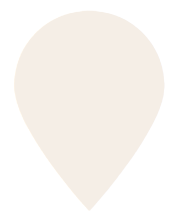
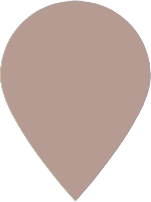
updated map design

diff --git a/app/assets/stylesheets/components/_media.css b/app/assets/stylesheets/components/_media.css
@@ -4,8 +4,22 @@
   margin: 5%;
 }
 
+.space-background {
+  background-image: url('stars.jpg');
+  background-repeat: no-repeat;
+  background-size: cover;
+  position: fixed;
+  top: 0px;
+  width: 100%;
+  z-index: -1;
+}
+
 .window {
   background: linear-gradient(0deg, rgba(255,255,255,0.1) 0%, rgba(187,227,242,0) 21%, rgba(152,212,234,0) 86%, rgba(252,252,252,0.1) 100%);
+}
+
+.empty-section {
+  background: none;
 }
 
 /* about me */
@@ -13,8 +27,8 @@
   height: 40vh;
   width: 30%;
   object-fit: cover;
-  border-radius: 10px;
-  border: 20px solid #131313;
+  border: 20px solid white;
+  border-bottom: 50px solid white;
   position: absolute;
   top: 0px;
   right: 0px;
@@ -34,13 +48,20 @@
 
 /* past experiences */
 .map {
-  background-image: url("world-map.png");
-  height: 400px;
-  width: 650px !important;
-  border: 20px solid #131313;
+  /* background: linear-gradient(49deg, rgba(136,206,231,0.5) 0%, rgba(187,227,242,0.5) 66%, rgba(136,206,231,0.5) 93%); */
+  height: fit-content;
+  width: 60vw;
+  max-width: 650px;
   border-radius: 10px 0px 0px 10px;
   background-size: 100% 100%;
   position: relative;
+}
+
+.world-map {
+  fill: black !important;
+  filter:drop-shadow(5px 5px 10px var(--light-color)) invert(0%);
+  /* filter:drop-shadow(5px 5px 5px red) invert(77%) sepia(12%) saturate(489%) hue-rotate(334deg) brightness(82%) contrast(85%); */
+  width: 100%;
 }
 
 .pin {
@@ -51,40 +72,26 @@
 }
 
 .pin-usa {
-  top: 137px;
-  left: 26.5%;
+  top: calc(40% - 10px);
+  left: calc(29.2% - 7px);
 }
 
 .pin-france {
-  top: 127px;
-  left: 49%;
+  top: calc(38.5% - 10px);
+  left: calc(49.2% - 7px);
 }
 
 .pin-germany {
-  top: 107px;
-  left: 51%;
+  top: calc(35% - 10px);
+  left: calc(51% - 7px);
 }
 
 .pin-russia {
-  top: 85px;
-  left: 57%;
+  top: calc(30.5% - 10px);
+  left: calc(55.5% - 7px);
 }
 
 .pin-greece {
-  top: 145px;
-  left: 54%;
-}
-
-.pin-usa:hover + .usa-content {
-  .usa-content {
-    display: block;
-  }
-}
-
-.world-map {
-  fill: black !important;
-  /* filter:drop-shadow(5px 5px 10px brown) invert(0%); */
-  filter:drop-shadow(5px 5px 5px red) invert(77%) sepia(12%) saturate(489%) hue-rotate(334deg) brightness(82%) contrast(85%);
-
-  width: 800px;
+  top: calc(42% - 10px);
+  left: calc(54% - 7px);
 }

diff --git a/app/assets/stylesheets/components/_wrappers.css b/app/assets/stylesheets/components/_wrappers.css
@@ -65,53 +65,3 @@
 .button-bar img {
   height: 40px;
 }
-
-/* past experience */
-.map-wrapper {
-  width: 80vw;
-  height: 440px;
-  background-color: var(--light-color);
-  border-radius: 10px;
-  display: flex;
-}
-
-.work-experience-content {
-  padding: 30px 20px;
-  width: 100%;
-  height: calc(100% - 80px);
-  max-width: 50%;
-  overflow: scroll;
-}
-
-.content-scroll {
-  height: 80%;
-  /* overflow: scroll; */
-}
-
-.work-experience {
-  width: 80%;
-  /* border: 2px solid #BBE3F2;
-  box-shadow: 0px 0px 2px 1px #BBE3F2; */
-  padding: 10px;
-  border-radius: 10px;
-  background: var(--light-color);
-  margin-top: 10px;
-}
-
-.work-experience p {
-  width: 100%;
-  max-width: 500px;
-}
-
-.usa-content, .france-content, .germany-content, .russia-content, .greece-content {
-  width: 100%;
-  display: none;
-}
-
-.blank-map {
-  height: 100%;
-  width: 100%;
-  display: flex;
-  justify-content: center;
-  align-items: center;
-}

diff --git a/app/assets/stylesheets/components/_map.css b/app/assets/stylesheets/components/_map.css
@@ -1,0 +1,48 @@
+.map-content {
+  width: 40vw;
+  height: 40vh;
+  min-height: 350px;
+}
+
+.country-experience-list {
+  width: 100%;
+  height: 350px;
+  overflow: scroll;
+}
+
+.work-experience {
+  box-sizing: border-box;
+  width: calc(100% - 10px);
+  box-shadow: 5px 5px 10px var(--light-color);
+  padding: 10px;
+  border-radius: 10px;
+  background: var(--light-color);
+  margin-top: 10px;
+}
+
+.work-experience p {
+  width: 100%;
+}
+
+.usa-content, .france-content, .germany-content, .russia-content, .greece-content {
+  width: 100%;
+  display: none;
+}
+
+.blank-map {
+  height: 100%;
+  width: 100%;
+  display: flex;
+  justify-content: center;
+  align-items: center;
+}
+
+@media screen and (orientation: portrait) {
+  .map-content {
+    height: 40vh;
+    width: 80vw;
+  }
+  .country-experience-list {
+    height: 100%;
+  }
+}

diff --git a/app/assets/stylesheets/components/_general.css b/app/assets/stylesheets/components/_general.css
@@ -11,20 +11,6 @@ section {
   align-items: center;
 }
 
-.empty-section {
-  background: none;
-}
-
-.space-background {
-  background-image: url('stars.jpg');
-  background-repeat: no-repeat;
-  background-size: cover;
-  position: fixed;
-  top: 0px;
-  width: 100%;
-  z-index: -1;
-}
-
 .flex {
   display: flex;
   justify-content: center;
@@ -33,4 +19,18 @@ section {
 
 .flex-column {
   flex-direction: column;
+}
+
+.flex-orientation-switch {
+  display: flex;
+  justify-content: center;
+  align-items: flex-start;
+  gap: 20px;
+}
+
+@media screen and (orientation: portrait) {
+  .flex-orientation-switch {
+    flex-direction: column;
+    align-items: center;
+  }
 }

diff --git a/app/assets/stylesheets/components/_root.css b/app/assets/stylesheets/components/_root.css
@@ -1,11 +1,10 @@
 :root {
   /* colors */
-  --very-light-color: #F9F5EB;
-  --light-color: #D1D4D3;
-  --medium-color: #A8B3BA;
-  --primary-color: #131313;
-  --p-color: #131313;
-  --nav-color: #131313;
+  --primary-color:#B59D92;
+  --light-color: #D0D2D5;
+  --very-light-color: #ECEEF0;
+  --dark-color: #434749;
+  --very-dark-color: #383C3F;
 
   /* fonts */
   --p-font-family: 'Montserrat Alternates', sans-serif;

diff --git a/app/assets/stylesheets/components/footer.css b/app/assets/stylesheets/components/footer.css
@@ -1,6 +1,14 @@
 footer {
+  /* shape and color */
   height: 100px;
-  background-color: var(--primary-color);
+  width: 100%;
+  background-color: var(--very-dark-color);
+  /* position self */
+  position: absolute;
+  bottom: 0px;
+  left: 0px;
+  box-sizing: border-box;
+  /* position children */
   display: flex;
   justify-content: space-between;
   padding: 0% 30px;

diff --git a/app/assets/stylesheets/components/_fonts.css b/app/assets/stylesheets/components/_fonts.css
@@ -5,7 +5,7 @@ h1, h2, h3, h4, h5, h6 {
 
 h1, h2, h3, h4, h5, h6 {
   /* color: #131313; */
-  color: var(--primary-color);
+  color: var(--very-dark-color);
 }
 
 .light-font {
@@ -22,5 +22,5 @@ h2 {
 
 p {
   font-family: var(--p-font-family);
-  color: var(--p-color);
+  color: var(--very-dark-color);
 }

diff --git a/app/assets/stylesheets/components/_nav.css b/app/assets/stylesheets/components/_nav.css
@@ -3,7 +3,7 @@ nav {
   position: sticky;
   top: 0px;
   height: 65px;
-  background-color: var(--primary-color);
+  background-color: var(--very-dark-color);
   display: flex;
   justify-content: space-between;
   align-items: center;
